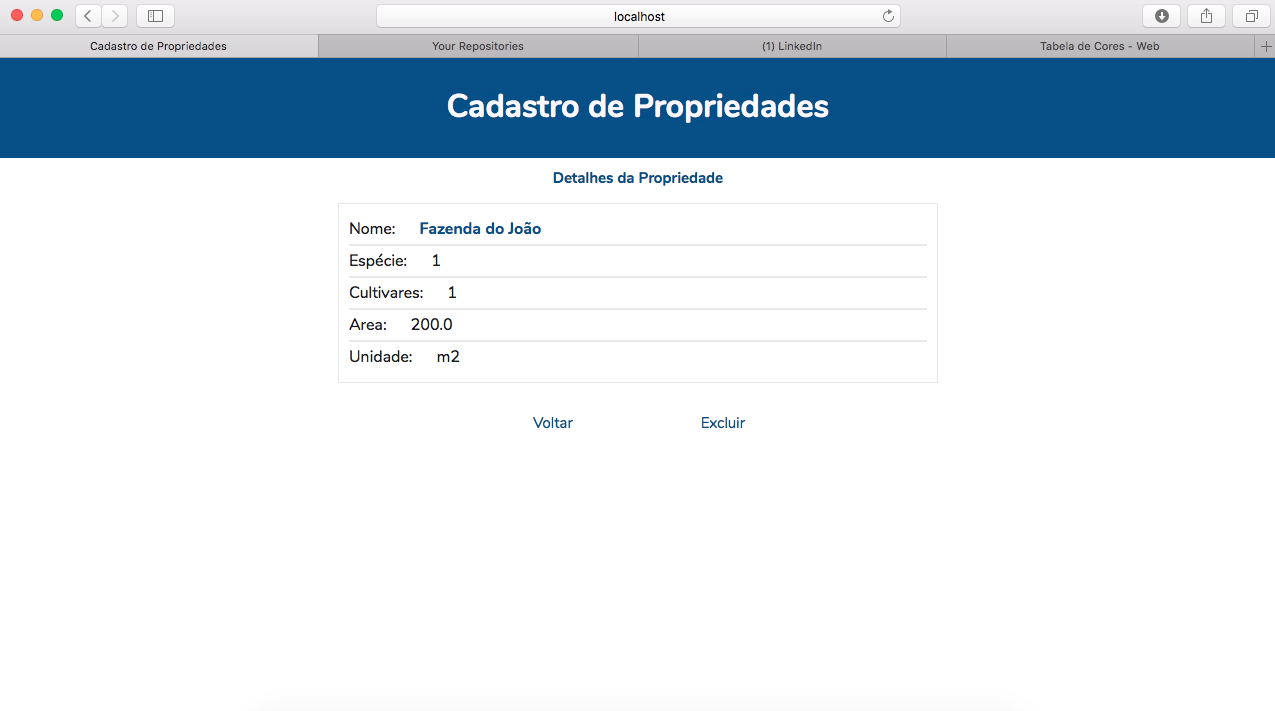
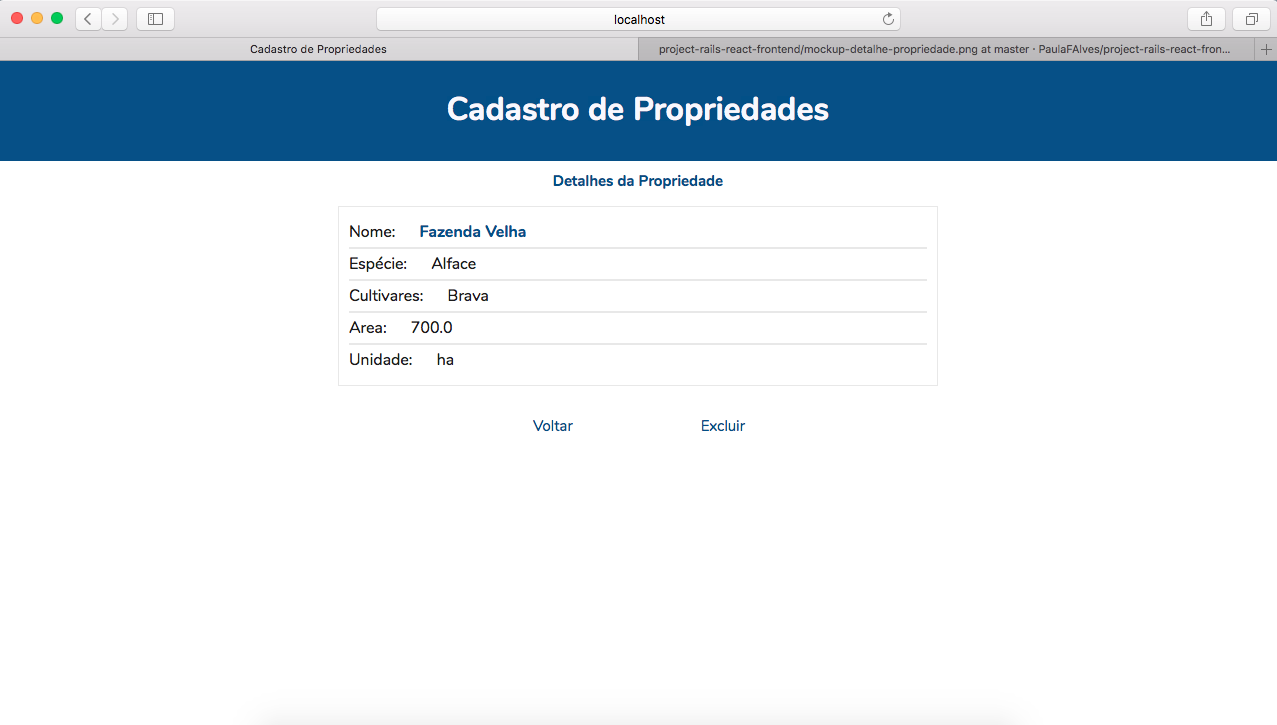
fixed bugs on render

diff --git a/cadastro-de-propriedade/src/components/Detail/index.js b/cadastro-de-propriedade/src/components/Detail/index.js
@@ -18,16 +18,24 @@ class Detail extends Component {
 		const id = localStorage.getItem('id');
 		let response = await fetch(`http://localhost:3001/propriedades/${id}`);
 		const propriedades = await response.json();
-		this.setState({ propriedades: propriedades });
-		const especie = await this.loadEspecies(propriedades.especie);
-		especie.map(especie => {
-			this.setState({
-				propriedades: {
-					...propriedades,
-					especie: especie.nome
-				}
-			})
+		let especie = await this.loadEspecies(propriedades.especie);
+		especie = especie.map(especie => {
+			return especie.nome;
 		})
+		let cultivar = await this.loadCultivares(propriedades.cultivar);
+		cultivar = cultivar.map(cultivar => {
+			return cultivar.nome;
+		})
+		this.setState({ 
+			propriedades: 
+			{
+				nome: propriedades.nome,
+				especie: especie,
+				cultivar: cultivar,
+				area: propriedades.area,
+				unidade: propriedades.unidade,
+			} 
+		});
 	}
 
 	componentDidMount() {
@@ -48,10 +56,20 @@ class Detail extends Component {
 		const converteEspecie = Number(especie)
 		let response = await fetch('http://localhost:3001/especies');
 		const especies = await response.json();
-		const n = especies.filter(especie => {
+		const resultado = especies.filter(especie => {
 			return especie.id === converteEspecie
 		})
-		return n	
+		return resultado	
+	}
+
+	async loadCultivares(cultivar) {
+		const converteCultivar = Number(cultivar)
+		let response = await fetch('http://localhost:3001/cultivares');
+		const cultivares = await response.json();
+		const resultado = cultivares.filter(cultivar => {
+			return cultivar.id === converteCultivar
+		})
+		return resultado	
 	}
 
 	render() {

diff --git a/cadastro-de-propriedade/src/components/List/index.js b/cadastro-de-propriedade/src/components/List/index.js
@@ -14,9 +14,9 @@ class List extends Component {
 
 	async loadPropriedades() {
 		let response = await fetch('http://localhost:3001/propriedades');
-		const propriedades = await response.json();
+		let propriedades = await response.json();
+		propriedades = propriedades.sort();
 		this.setState({ propriedades: propriedades });
-		console.log(propriedades);
 	}
 
 	componentDidMount() {

diff --git a/cadastro-de-propriedade/src/components/Create/index.js b/cadastro-de-propriedade/src/components/Create/index.js
@@ -84,9 +84,6 @@ function Create(props) {
 		const unidadeSelecionada = e.target.value;
 		setUnidade(unidadeSelecionada);
 	}
-	console.log(cultivares)
-	console.log(especies)
-
 
 		return(
 			<div>
